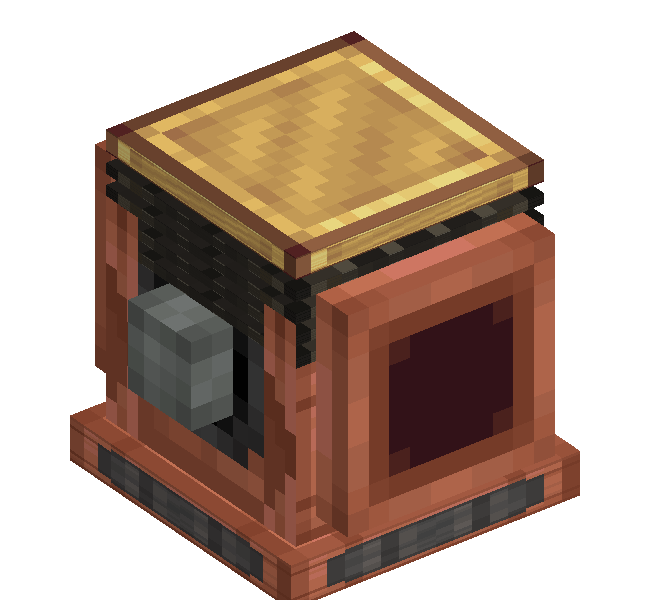
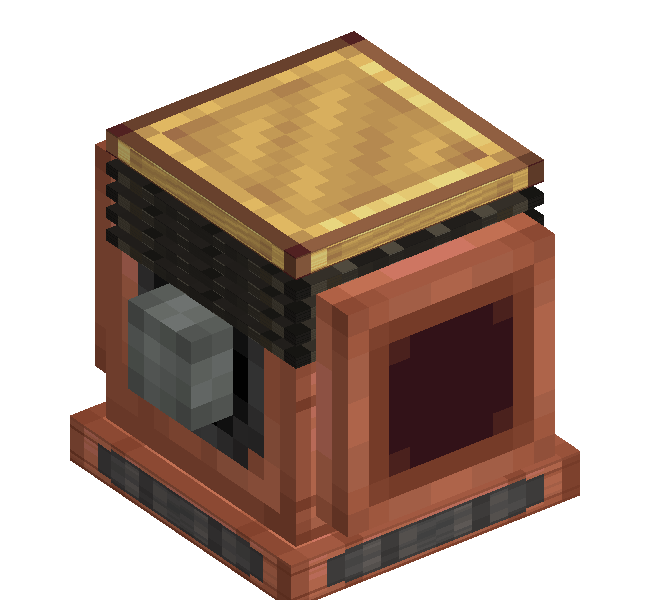
Make portable pump flow follow rotation and wrench rotate upright body

Changed region(s): [[0.4, 0.51, 0.4615, 0.93], [0.1538, 0.48, 0.2154, 0.75], [0.1538, 0.33, 0.2154, 0.45]]

diff --git a/src/main/java/dev/ccd/gametest/PortablePumpTests.java b/src/main/java/dev/ccd/gametest/PortablePumpTests.java
@@ -25,7 +25,10 @@ public class PortablePumpTests {
                 h.assertTrue(pump.calculateAddedStressCapacity()>pump.calculateStressApplied(),"No spare capacity for external devices");
                 var state=pump.getBlockState();
                 var flipped=CopperDynamics.PORTABLE_PUMP.get().getRotatedBlockState(state,Direction.UP);
-                h.assertTrue(flipped.getValue(dev.ccd.content.PortableFluidPumpBlock.FACING)==state.getValue(dev.ccd.content.PortableFluidPumpBlock.FACING).getOpposite(),"Wrench did not reverse flow");
+                h.assertTrue(flipped.getValue(dev.ccd.content.PortableFluidPumpBlock.FACING)==state.getValue(dev.ccd.content.PortableFluidPumpBlock.FACING).getClockWise(),"Wrench did not rotate body");
+                h.assertTrue(!pump.isPullingOnSide(true),"Positive speed must push at front");
+                pump.turn(true);
+                h.assertTrue(pump.getGeneratedSpeed()==-32&&pump.isPullingOnSide(true),"Sneaking must reverse shaft and flow");
                 h.runAfterDelay(12,()->{
                     h.assertTrue(shaft.getSpeed()==0,"Manual source did not stop");h.succeed();
                 });

diff --git a/src/main/java/dev/ccd/content/PortableFluidPumpBlockEntity.java b/src/main/java/dev/ccd/content/PortableFluidPumpBlockEntity.java
@@ -15,6 +15,15 @@ public final class PortableFluidPumpBlockEntity extends ReciprocatingFluidPumpBl
     @Override public int targetFlow() { return CCDConfig.portableFlow(); }
     @Override public int targetRange() { return CCDConfig.PORTABLE_RANGE.get(); }
     @Override public float pumpingSpeed() { return getSpeed(); }
+    @Override public boolean isPullingOnSide(boolean front) {
+        return super.isPullingOnSide(front)^(pumpingSpeed()<0);
+    }
+    @Override public void onSpeedChanged(float previousSpeed) {
+        super.onSpeedChanged(previousSpeed);
+        // Native pump skips reversals when the absolute RPM is unchanged.
+        if(level!=null&&!level.isClientSide()&&previousSpeed!=getSpeed()
+            &&Math.abs(previousSpeed)==Math.abs(getSpeed()))updatePressureChange();
+    }
     @Override protected double strokePhaseStep() {
         // The old 256 RPM cadence is the new low-speed baseline. Compress the
         // upper range to keep complete strokes readable rather than aliasing.

diff --git a/src/main/java/dev/ccd/content/PortableFluidPumpBlock.java b/src/main/java/dev/ccd/content/PortableFluidPumpBlock.java
@@ -10,6 +10,10 @@ import net.minecraft.world.InteractionResult;
 
 public final class PortableFluidPumpBlock extends ReciprocatingFluidPumpBlock {
     public PortableFluidPumpBlock(Properties properties) { super(properties); }
+    @Override public BlockState getRotatedBlockState(BlockState state,net.minecraft.core.Direction clickedFace) {
+        // Bellows stays upright: rotate the horizontal fluid/shaft axes together.
+        return state.setValue(FACING,state.getValue(FACING).getClockWise());
+    }
     @Override public net.minecraft.world.level.block.entity.BlockEntityType<? extends com.simibubi.create.content.fluids.pump.PumpBlockEntity> getBlockEntityType() {
         return CopperDynamics.PORTABLE_PUMP_BE.get();
     }
